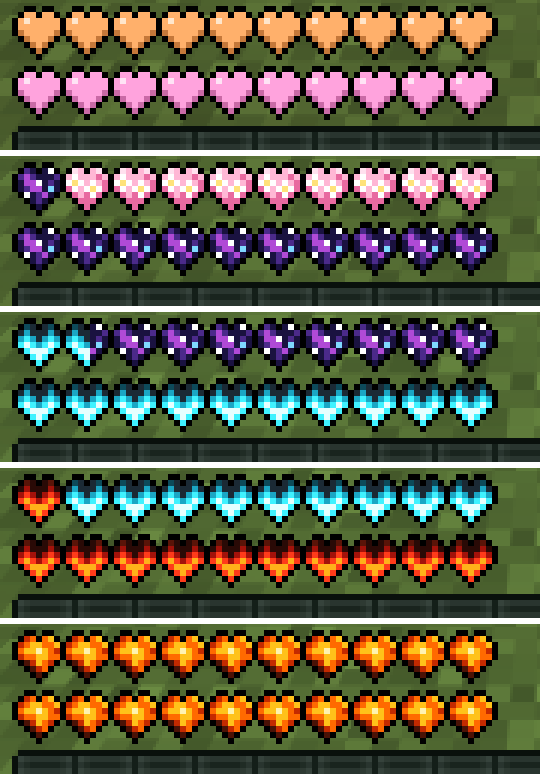
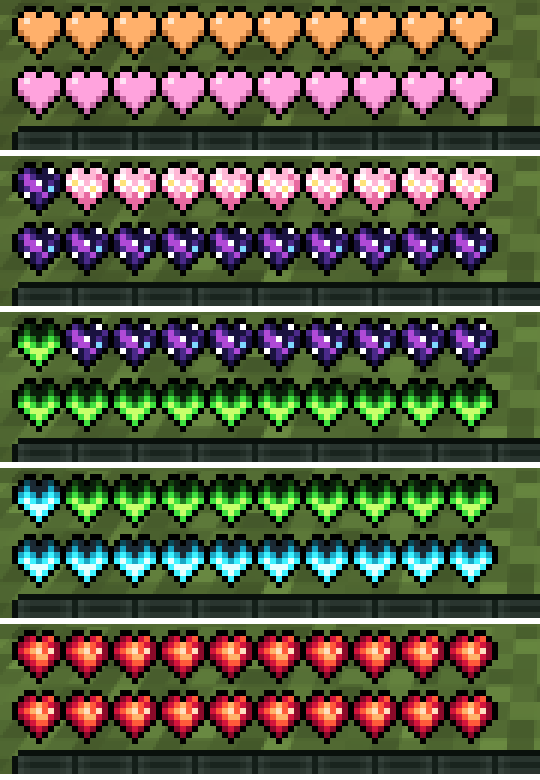
Docs: D38 heart order and screenshots

diff --git a/docs/system/01-decisions.md b/docs/system/01-decisions.md
@@ -38,4 +38,5 @@
 | D34 | Đệ tử của Evoker | Trùm **Evoker** giờ đi cùng **4 Pillager** (cầm nỏ, mũ sắt) thay cho 4 Vindicator | 2026-11-14 |
 | D35 | Trùm Ghast | Thêm trùm bay **Ghast** (thành 6 loại trùm). 150 máu, to gấp đôi, giáp như các trùm khác; xuất hiện lơ lửng **ngoài trời** gần Crimson Master (to quá, không vào hang). Đệ tử: **4 Phantom** đội mũ (không cháy nắng). Ghast không tự bám người chơi nên có “dây xích”: mỗi giây, nếu bay xa hơn **24 block** (ngang) quanh Crimson Master hoặc cao hơn **16 block** trên đầu người chơi gần nhất thì bị kéo về lơ lửng 8–12 block trên đầu người đó. **Bắn nhanh hơn 20%** (50 tick/phát thay vì 60). Cầu lửa **vẫn phá block** như vanilla (theo gamerule mobGriefing) | 2026-11-14 |
 | D36 | Trần 100 tim, thanh tim nhiều lớp | Trần ~~100~~ → **300** (D37). Trần tim **100** (thay D7). Thanh tim **tối đa 2 hàng** (20 tim): tim 21–40 vẽ đè lên tim 1–20 bằng màu **cam**, bắt đầu từ tim đầu tiên của hàng thứ nhất; 41–60 **hồng**, 61–80 **tím**, 81–100 **xanh dương**. Mất máu thì mất tim của lớp trên cùng trước (tim khác màu). Tới 20 tim vẫn y như vanilla. Trúng độc/wither/đóng băng thì mọi tim đổi màu như vanilla; tim vàng (absorption) nằm ở hàng phía trên; thanh giáp nằm ngay trên 2 hàng tim. Cần mod ở máy người chơi (người không có mod thấy thanh vanilla nhiều hàng) | 2026-11-14 |
-| D37 | Trần 300 tim, màu và hoạ tiết tim | Trần tim **300** (thay D36). Mỗi 20 tim một lớp, vẫn tối đa 2 hàng: 1–100 màu tươi (đỏ, cam, hồng, tím, xanh dương), 101–200 màu nhạt (**san hô, đào, hồng phấn, oải hương, bạc hà**), 201–300 tim hoạ tiết: **Hoa anh đào** (201–220), **Thiên hà** (221–240), **Lửa linh hồn** (241–260, lửa xanh), **Lửa đỏ** (261–280), **Dung nham** (281–300, mức đỉnh). Không dùng viền. Hình vẽ bằng `mods/permahearts/tools/make_heart_sprites.py` | 2026-11-14 |
+| D37 | Trần 300 tim, màu và hoạ tiết tim | Trần tim **300** (thay D36). Mỗi 20 tim một lớp, vẫn tối đa 2 hàng: 1–100 màu tươi (đỏ, cam, hồng, tím, xanh dương), 101–200 màu nhạt (**san hô, đào, hồng phấn, oải hương, bạc hà**), 201–300 tim hoạ tiết: **Hoa anh đào** (201–220), **Thiên hà** (221–240), ~~Lửa linh hồn (241–260), Lửa đỏ (261–280), Dung nham (281–300)~~ → sửa ở D38. Không dùng viền. Hình vẽ bằng `mods/permahearts/tools/make_heart_sprites.py` | 2026-11-14 |
+| D38 | Thứ tự tim 241–300 | 241–260 **Lửa xanh lá** (Lửa đỏ đổi màu, đặt trước Lửa linh hồn), 261–280 **Lửa linh hồn**, 281–300 **Huyết nham** (đỏ thẫm) là mức đỉnh; mẫu Huyết nham cuối cùng Huy còn đang chọn | 2026-11-14 |

diff --git a/docs/mods/permahearts/spec.md b/docs/mods/permahearts/spec.md
@@ -75,6 +75,6 @@
 ## Thanh tim nhiều lớp (D36)
 
 - Tới 20 tim: thanh vanilla. Trên 20 tim: luôn 2 hàng; tim 21–40 vẽ đè từ tim đầu tiên của hàng 1 bằng màu cam, 41–60 hồng, 61–80 tím, 81–100 xanh dương. Mất máu thì tim lớp trên cùng mất trước.
-- D37: 101–200 san hô, đào, hồng phấn, oải hương, bạc hà; 201–300 hoa anh đào, thiên hà, lửa linh hồn, lửa đỏ, dung nham. Sửa hình: `mods/permahearts/tools/make_heart_sprites.py` rồi chạy lại. Ảnh: `docs/screens/hearts-150-300-strip.png`.
+- D37: 101–200 san hô, đào, hồng phấn, oải hương, bạc hà; 201–300 hoa anh đào, thiên hà, lửa xanh lá, lửa linh hồn, huyết nham (D38). Sửa hình: `mods/permahearts/tools/make_heart_sprites.py` rồi chạy lại. Ảnh: `docs/screens/hearts-150-300-strip.png`.
 - Độc/wither/đóng băng: mọi tim theo màu vanilla của hiệu ứng. Tim vàng: các hàng phía trên. Giáp: ngay trên 2 hàng tim.
 - Ảnh: `docs/screens/hearts-57-full.png`, `hearts-57-hurt.png`, `hearts-100-full.png`.

diff --git a/docs/workflow/playtest.md b/docs/workflow/playtest.md
@@ -56,4 +56,4 @@ Một cửa sổ Minecraft sẽ hiện ~30 giây rồi tự đóng. Ảnh nằm 
 1. Survival, `/hearts set @s 21`: vẫn 2 hàng, tim đầu tiên hàng dưới màu cam. Bị đánh mất nửa tim → tim cam còn nửa; mất thêm → hết cam, còn 20 tim đỏ.
 2. `/hearts set @s 57`: hàng dưới 8 tim hồng đầu rồi cam, hàng trên cam. `/hearts set @s 100`: 20 tim xanh dương.
 3. Mặc giáp: thanh giáp nằm ngay trên 2 hàng tim. Ăn táo vàng: tim vàng ở hàng trên. Uống thuốc độc: mọi tim màu độc.
-4. D37: `/hearts set @s 150` → tim nhạt (hồng phấn trên nền đào). `/hearts set @s 300` → toàn dung nham; bị đánh dần: lửa đỏ, lửa linh hồn, thiên hà, hoa anh đào lần lượt lộ ra.
+4. D37: `/hearts set @s 150` → tim nhạt (hồng phấn trên nền đào). `/hearts set @s 300` → toàn huyết nham; bị đánh dần: lửa linh hồn, lửa xanh lá, thiên hà, hoa anh đào lần lượt lộ ra (D38).
